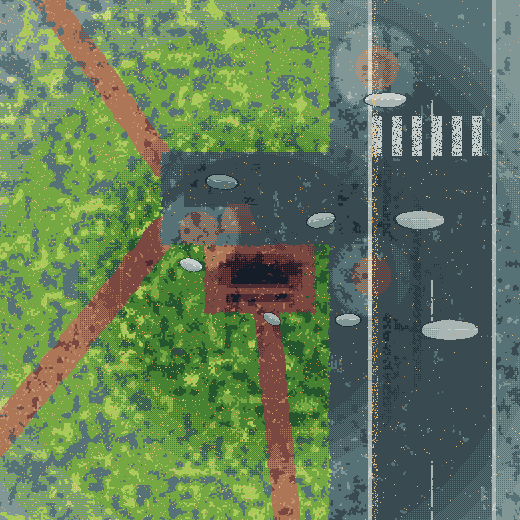
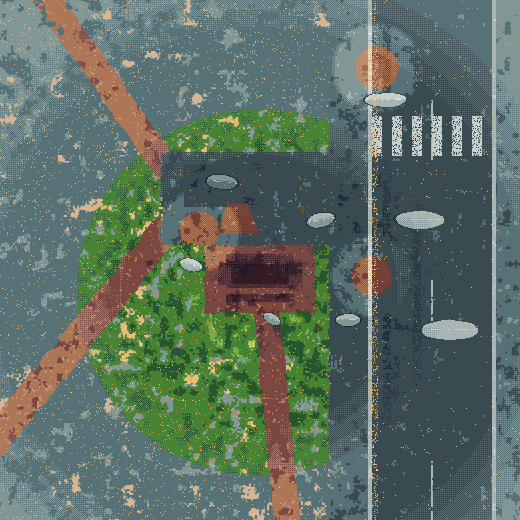
Остановка: туман гасит зелень в серое, а не в салатовую, дальние берёзы без ряби

diff --git a/tools/art/rooms_a.py b/tools/art/rooms_a.py
@@ -99,9 +99,9 @@ def lut_mix(target, f, allow=None):
 FOG_C = 44
 FOG_LEVELS = [0.0, 0.14, 0.28, 0.42, 0.56, 0.7, 0.82, 0.92]
 # в тумане цвета сводим только к спокойным (серые, голубые, бежевые) — без неожиданной зелени и сиреневого
-FOG_ALLOW = [0, 1, 2, 3, 4, 5, 6, 7, 8, 9, 10, 11, 12, 13, 14, 15, 16, 17, 20, 21, 22, 23, 26, 27, 28, 29,
+FOG_ALLOW = [0, 1, 2, 3, 4, 5, 6, 7, 8, 12, 13, 14, 15, 16, 17, 20, 21, 22, 23, 26, 27, 28, 29,
              36, 37, 38, 39, 40, 41, 42, 43, 44, 45]
-FOG_LUT = np.stack([lut_mix(FOG_C, f, FOG_ALLOW) for f in FOG_LEVELS])
+FOG_LUT = np.stack([np.append(np.arange(46), T) if f == 0 else lut_mix(FOG_C, f, FOG_ALLOW) for f in FOG_LEVELS])
 # тёплый свет фонаря — вручную: серое уходит в бежевое, коричневое светлеет, зелень светлеет; синее не трогаем
 _W = list(range(46))
 for _a, _b in ((36, 12), (37, 12), (38, 13), (39, 13), (40, 13), (41, 14), (42, 15), (43, 16), (44, 17), (45, 17),
@@ -326,8 +326,9 @@ def ground_tex(x0, x1, z0, z1, s, fine=True, fog=True):
     spill &= (BAYER2[ys % 2, xs_ % 2] < 0.7 - (Z - kz) * 0.35)
     warm(t.a, spill, 1)
     if fog:
+        # вблизи туман реже: трава у стола остаётся зелёной, сереет только дальше
         d = np.hypot(X - EYE[0], Z - EYE[2])
-        t.a = apply_fog(t.a, fog_level(d), ys, xs_)
+        t.a = apply_fog(t.a, fog_level(d, 34.0 if fine is False else 60.0), ys, xs_)
     return t, X, Z
 
 
@@ -444,7 +445,7 @@ def fence_color(u, y):
     return a
 
 
-def birch_sprite(s, seed, w_m=3.2, h_m=8.0, color='yellow'):
+def birch_sprite(s, seed, w_m=3.2, h_m=8.0, color='yellow', clean=False):
     """Берёза в осенней листве. s — м на тексель. Ствол по центру снизу."""
     r2 = np.random.default_rng(seed)
     w, h = round(w_m / s), round(h_m / s)
@@ -487,11 +488,11 @@ def birch_sprite(s, seed, w_m=3.2, h_m=8.0, color='yellow'):
     for bx, by in sorted(blobs, key=lambda p: p[1]):
         rx, ry = rr * r2.uniform(0.9, 1.6), rr * r2.uniform(0.8, 1.2)
         m = ((xs - bx) / rx) ** 2 + ((ys - by) / ry) ** 2 <= 1
-        hole = r2.random(m.shape) < 0.08
+        hole = r2.random(m.shape) < (0.02 if clean else 0.08)
         t.mask(m & ~hole, pal[1])
         t.mask(m & ~hole & (ys < by - ry * 0.3), pal[2])
         t.mask(m & ~hole & (xs > bx + rx * 0.3) & (ys > by), pal[0])
-        t.mask(m & (r2.random(m.shape) < 0.05), pal[3])
+        t.mask(m & (r2.random(m.shape) < (0.01 if clean else 0.05)), pal[3])
     # свисающие плети с листьями
     for _ in range(int(w * 0.25)):
         x = cx + r2.normal(0, w * 0.22)
@@ -695,7 +696,7 @@ def ray_wall(pts):
 def make_billboards():
     bb = []
     r2 = np.random.default_rng(3)
-    spr = [birch_sprite(0.1, 100 + i, 2.6, 6.0 + (i % 3) * 0.8, color=('yellow', 'late', 'yellow', 'green')[i % 4]) for i in range(6)]
+    spr = [birch_sprite(0.1, 100 + i, 2.6, 6.0 + (i % 3) * 0.8, color=('yellow', 'late', 'yellow', 'green')[i % 4], clean=True) for i in range(6)]
     lamp = lamp_far_sprite(0.1)
     # фонари вдоль дороги, уходящие в туман
     for lz in (-21.0, -31.4, -41.8, -52.2, -62.6):
